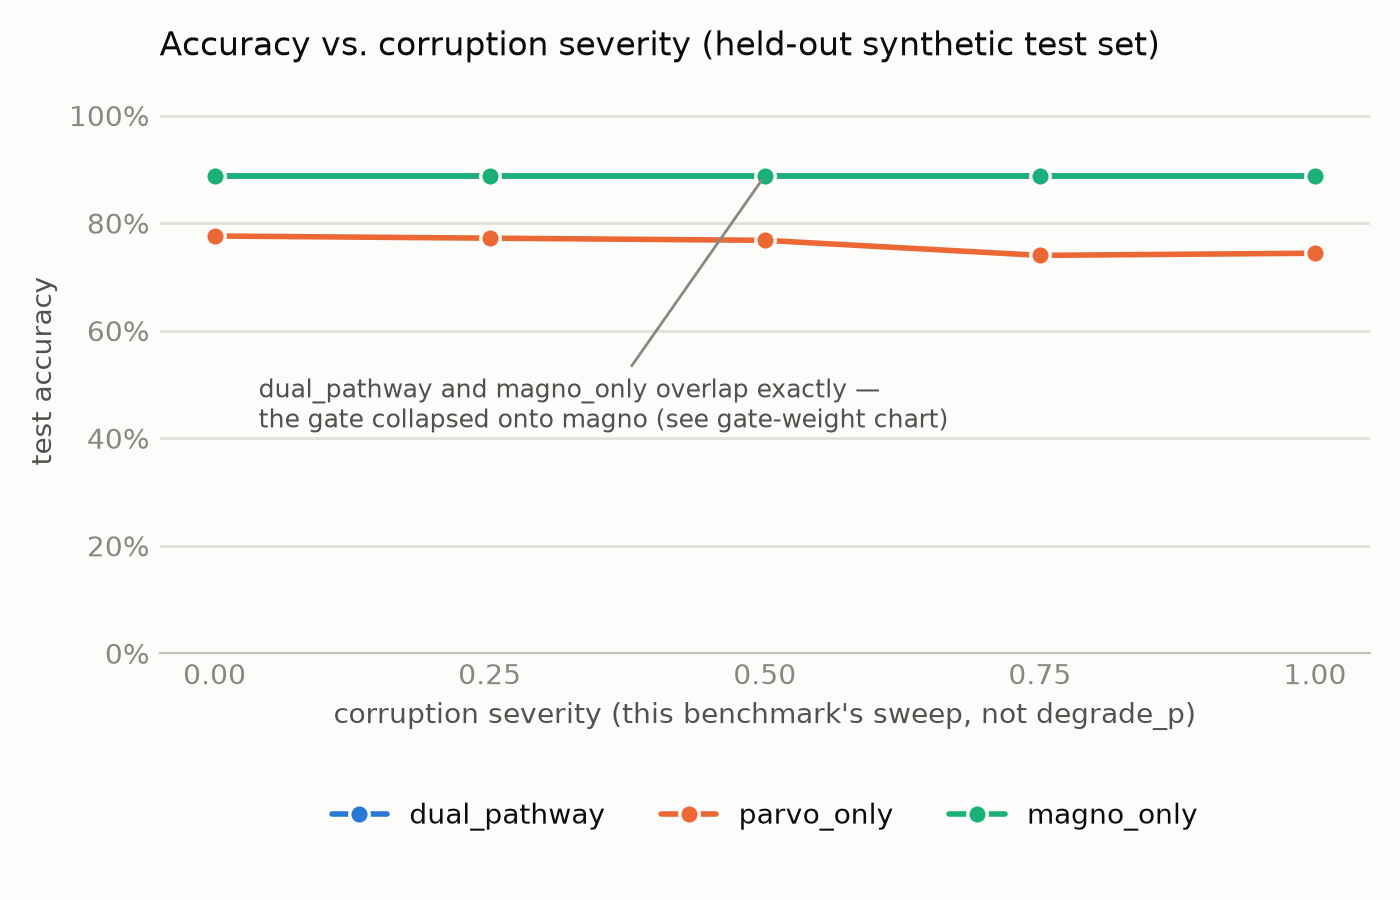
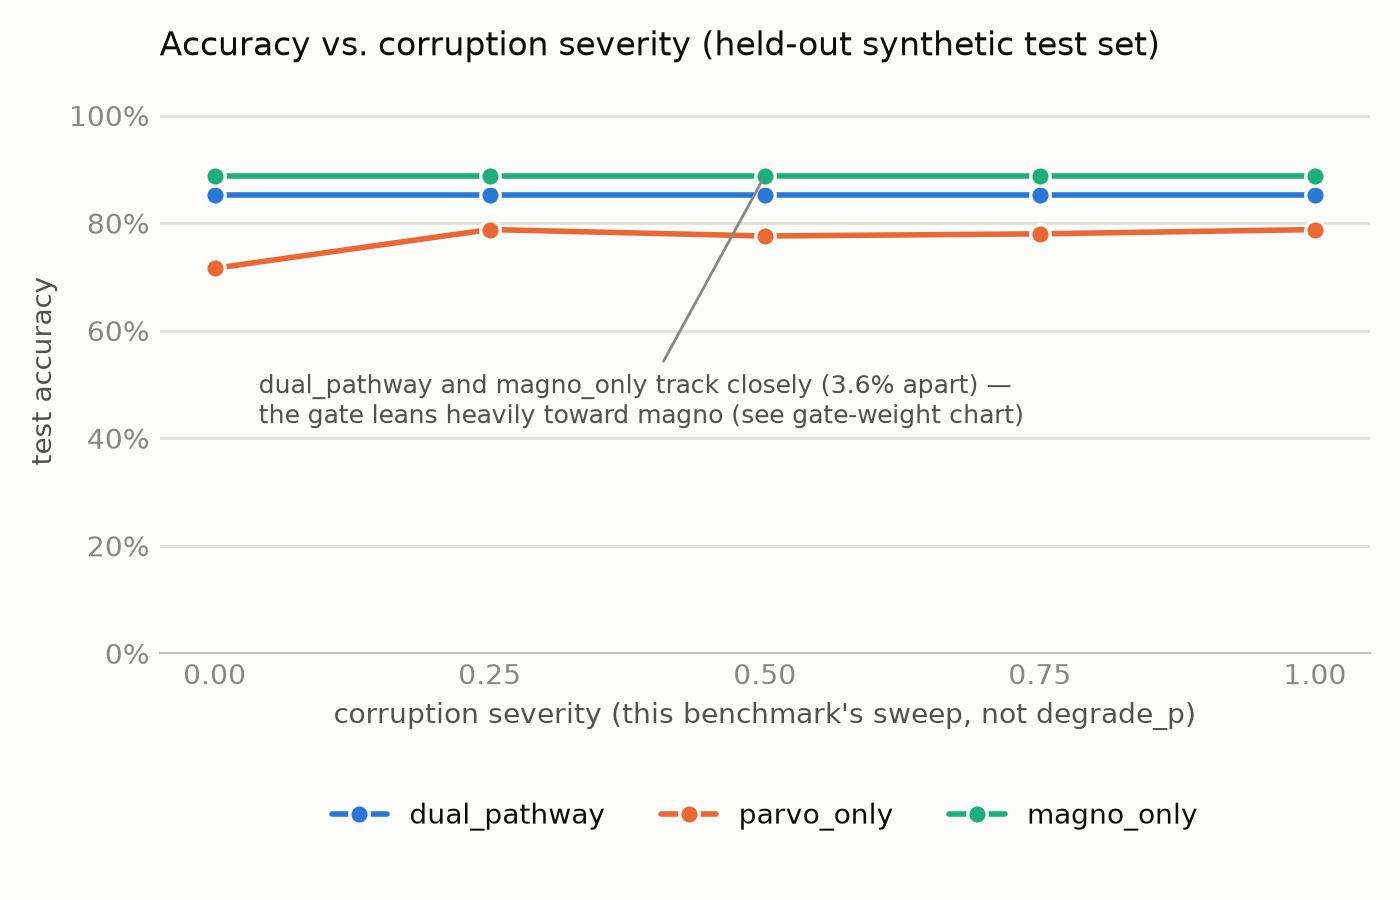
Build a genuinely fusion-necessary task in benchmark.py
Every prior benchmark showed fusion being sometimes helpful, never
required -- some single pathway always turned out sufficient given enough
resolution. This constructs a task where neither can do well alone: every
sample gets exactly one whole pathway zeroed, chosen per-sample (~50/50,
a hard either/or, not blur/noise). A fresh DualPathwayClassifier trained
under this regime hits 81.7% vs. ~51% for both single-pathway baselines
trained normally on clean data -- a decisive result, since only a model
that detects which pathway is live per sample and routes to it can beat
the ~50% ceiling either baseline is stuck at.

Also fixes a now-stale hardcoded chart annotation ("overlap exactly")
that this run's reshuffled random seed made literally false -- computed
from the data instead so it stays accurate across reruns.

Changed region(s): [[0.1536, 0.1867, 0.9521, 0.3422], [0.1843, 0.3422, 0.7371, 0.4978]]

diff --git a/benchmark.py b/benchmark.py
@@ -27,6 +27,11 @@ This is a toy benchmark meant to demonstrate the architecture's intended
 behavior (graceful degradation, gate shifting, text localization), not a
 claim about real-world sign/text performance — see the README caveat.
 
+Also runs a second, separate experiment (run_fusion_necessary_experiment):
+a task built so that neither pathway alone can do well, unlike the
+severity sweep above where fusion only ever turned out to be *sometimes*
+helpful. See that function's docstring/comments for the construction.
+
 Run: python benchmark.py
 """
 
@@ -291,6 +296,132 @@ def avg_text_metrics(model, dataloader, device, severity):
     return {k: sum(m[k] for m in all_metrics) / len(all_metrics) for k in all_metrics[0]}
 
 
+# --------------------------------------------------------------------------
+# Fusion-necessary task: unlike the severity sweep above (which showed
+# fusion is *sometimes helpful* under corruption but never *required* —
+# every task tried always turned out solvable by whichever single pathway
+# was stronger, per the GTSRB README section on this), this constructs a
+# task where NEITHER pathway alone can do well, by design.
+#
+# Every sample gets exactly one whole pathway zeroed, chosen independently
+# per sample (~50/50) — not blur, not partial noise, a hard per-sample
+# either/or ("half your shots come from a color camera with a dead color
+# sensor, half from a mono-only camera"). A single-pathway model can only
+# ever succeed on the ~half of samples where ITS pathway happens to be the
+# survivor; only a model that can detect which pathway is live per sample
+# and route to it can do well across the whole set. This is exactly what
+# GatedFusion is for (a per-sample, not global, weighting) — this task is
+# built specifically to need that.
+# --------------------------------------------------------------------------
+def zero_one_pathway_batch(gray_batch, color_batch):
+    keep_gray = torch.rand(gray_batch.shape[0], device=gray_batch.device) < 0.5
+    gray_out = gray_batch * keep_gray.view(-1, 1, 1, 1)
+    color_out = color_batch * (~keep_gray).view(-1, 1, 1, 1)
+    return gray_out, color_out
+
+
+def train_fusion_necessary_epoch(model, dataloader, optimizer, device, text_mask_weight=2.0):
+    """Trains DualPathwayClassifier under the always-one-pathway-missing
+    regime. Ordinary pathway dropout (a *fraction* of batches) isn't
+    frequent enough exposure for the gate to learn a reliable per-sample
+    detect-and-route policy — this task needs it on every sample."""
+    model.train()
+    cls_criterion = nn.CrossEntropyLoss()
+    mask_criterion = nn.BCEWithLogitsLoss(pos_weight=torch.tensor(15.0, device=device))
+    total_loss = 0.0
+    for color_imgs, labels, text_masks in dataloader:
+        color_imgs, labels, text_masks = color_imgs.to(device), labels.to(device), text_masks.to(device)
+        gray_batch, color_batch = _batch_inputs(color_imgs, lambda: 0.0)  # clean, pre-zeroing
+        gray_batch, color_batch = gray_batch.to(device), color_batch.to(device)
+        gray_batch, color_batch = zero_one_pathway_batch(gray_batch, color_batch)
+
+        optimizer.zero_grad()
+        logits, pred_mask = model(gray_batch, color_batch, return_text_mask=True)
+        loss = cls_criterion(logits, labels) + text_mask_weight * mask_criterion(pred_mask, text_masks)
+        loss.backward()
+        optimizer.step()
+        total_loss += loss.item()
+    return total_loss / len(dataloader)
+
+
+def train_baseline_clean_epoch(model, dataloader, optimizer, device):
+    """Single-pathway baselines for the fusion-necessary task are trained
+    on clean data only, not exposed to zeroed input during training —
+    realistic framing: a single-sensor system is trained on good data for
+    its one sensor, then just happens to lose signal sometimes at
+    deployment/test time. (If you knew in advance when your one sensor
+    would fail, you'd just use a different sensor.)"""
+    model.train()
+    criterion = nn.CrossEntropyLoss()
+    total_loss = 0.0
+    for color_imgs, labels, _ in dataloader:
+        color_imgs, labels = color_imgs.to(device), labels.to(device)
+        gray_batch, color_batch = _batch_inputs(color_imgs, lambda: 0.0)
+        gray_batch, color_batch = gray_batch.to(device), color_batch.to(device)
+
+        optimizer.zero_grad()
+        logits = model(gray_batch, color_batch)
+        loss = criterion(logits, labels)
+        loss.backward()
+        optimizer.step()
+        total_loss += loss.item()
+    return total_loss / len(dataloader)
+
+
+@torch.no_grad()
+def evaluate_fusion_necessary(model, dataloader, device, n_trials=5):
+    """Accuracy under the same one-pathway-always-missing regime. n_trials
+    repeats the random per-sample zeroing draw and averages, since a single
+    draw is noisy (~half the test set is arbitrary per draw)."""
+    model.eval()
+    accs = []
+    for _ in range(n_trials):
+        correct, total = 0, 0
+        for color_imgs, labels, _ in dataloader:
+            color_imgs, labels = color_imgs.to(device), labels.to(device)
+            gray_batch, color_batch = _batch_inputs(color_imgs, lambda: 0.0)
+            gray_batch, color_batch = gray_batch.to(device), color_batch.to(device)
+            gray_batch, color_batch = zero_one_pathway_batch(gray_batch, color_batch)
+            out = model(gray_batch, color_batch)
+            logits = out[0] if isinstance(out, tuple) else out
+            correct += (logits.argmax(dim=1) == labels).sum().item()
+            total += labels.size(0)
+        accs.append(correct / total if total else float("nan"))
+    return sum(accs) / len(accs)
+
+
+def run_fusion_necessary_experiment(train_loader, test_loader, num_classes, epochs=22):
+    print(f"\n{'=' * 70}\nFusion-necessary task: every sample has exactly one pathway zeroed\n{'=' * 70}")
+    dual_model = DualPathwayClassifier(num_classes=num_classes, with_text_head=True).to(DEVICE)
+    parvo_model = ParvoOnlyClassifier(num_classes=num_classes).to(DEVICE)
+    magno_model = MagnoOnlyClassifier(num_classes=num_classes).to(DEVICE)
+
+    opt_dual = Adam(dual_model.parameters(), lr=1e-3)
+    opt_parvo = Adam(parvo_model.parameters(), lr=1e-3)
+    opt_magno = Adam(magno_model.parameters(), lr=1e-3)
+
+    print(f"Training for {epochs} epochs...")
+    for epoch in range(epochs):
+        l_dual = train_fusion_necessary_epoch(dual_model, train_loader, opt_dual, DEVICE)
+        l_parvo = train_baseline_clean_epoch(parvo_model, train_loader, opt_parvo, DEVICE)
+        l_magno = train_baseline_clean_epoch(magno_model, train_loader, opt_magno, DEVICE)
+        print(f"  epoch {epoch + 1:2d}: dual={l_dual:.3f}  parvo_only={l_parvo:.3f}  magno_only={l_magno:.3f}")
+
+    print("\nAccuracy with one pathway always missing (averaged over 5 random draws):")
+    results = {
+        "dual_pathway": evaluate_fusion_necessary(dual_model, test_loader, DEVICE),
+        "parvo_only": evaluate_fusion_necessary(parvo_model, test_loader, DEVICE),
+        "magno_only": evaluate_fusion_necessary(magno_model, test_loader, DEVICE),
+    }
+    for name, acc in results.items():
+        print(f"  {name:14s}: {acc:.4f}")
+
+    with open("fusion_necessary_results.json", "w") as f:
+        json.dump({"num_classes": num_classes, "epochs": epochs, "accuracy": results}, f, indent=2)
+    print("\nWrote fusion_necessary_results.json")
+    return results
+
+
 def main():
     num_classes = len(CLASSES)
     print("Building synthetic dataset...")
@@ -345,6 +476,8 @@ def main():
             "text_metrics": {"clean": tm_clean, "degraded": tm_degraded},
         }, f, indent=2)
     print("\nWrote benchmark_results.json")
+
+    run_fusion_necessary_experiment(train_loader, test_loader, num_classes)
 
 
 if __name__ == "__main__":

diff --git a/plot_fusion_necessary.py b/plot_fusion_necessary.py
@@ -1,0 +1,53 @@
+"""
+Renders assets/fusion_necessary.png from fusion_necessary_results.json.
+Run benchmark.py first (it runs this experiment as its second phase).
+"""
+
+import json
+
+import matplotlib.pyplot as plt
+
+from plot_results import AQUA, BASELINE, BLUE, INK_MUTED, INK_PRIMARY, INK_SECONDARY, ORANGE, _clean_axes
+
+
+def main():
+    with open("fusion_necessary_results.json") as f:
+        results = json.load(f)
+    acc = results["accuracy"]
+
+    bars = [("dual_pathway", acc["dual_pathway"], BLUE),
+            ("parvo_only", acc["parvo_only"], ORANGE),
+            ("magno_only", acc["magno_only"], AQUA)]
+
+    fig, ax = plt.subplots(figsize=(6.5, 4.8), dpi=200)
+    _clean_axes(ax)
+
+    xs = range(len(bars))
+    for x, (label, val, color) in zip(xs, bars):
+        ax.bar(x, val, color=color, width=0.55, zorder=3)
+        ax.text(x, val + 0.02, f"{val:.1%}", ha="center", fontsize=11, color=INK_SECONDARY)
+
+    ax.axhline(0.5, color=BASELINE, linewidth=1, linestyle=(0, (2, 2)), zorder=2)
+    ax.text(2.35, 0.505, "~chance ceiling for a\nsingle pathway here", fontsize=8, color=INK_MUTED, va="bottom")
+
+    ax.set_xticks(list(xs))
+    ax.set_xticklabels([b[0] for b in bars], fontsize=10.5)
+    ax.set_ylim(0, 1.05)
+    ax.set_ylabel("accuracy (5-draw avg.)")
+    ax.set_title("A task neither pathway can solve alone",
+                 color=INK_PRIMARY, fontsize=12.5, loc="left", pad=14)
+
+    fig.text(0.02, 0.01,
+              "Every test sample has exactly one whole pathway zeroed (chosen per-sample, ~50/50) --\n"
+              "not blur, a hard either/or. Only a model that detects which pathway is live and routes\n"
+              "to it can beat ~50%; GatedFusion's per-sample weighting is built for exactly this.",
+              fontsize=8.5, color=INK_MUTED, ha="left")
+
+    fig.tight_layout(rect=(0.02, 0.14, 1, 1))
+    fig.savefig("assets/fusion_necessary.png", bbox_inches="tight")
+    plt.close(fig)
+    print("Wrote assets/fusion_necessary.png")
+
+
+if __name__ == "__main__":
+    main()

diff --git a/plot_results.py b/plot_results.py
@@ -149,11 +149,16 @@ def main():
     with open("benchmark_results.json") as f:
         results = json.load(f)
 
+    curve = results["severity_curve"]
+    dual_mid = curve["dual_pathway"]["0.5"]
+    magno_mid = curve["magno_only"]["0.5"]
+    gap = abs(dual_mid - magno_mid)
+    relation = "overlap exactly" if gap < 0.005 else f"track closely ({gap:.1%} apart)"
     plot_severity_curve(
         results, "assets/severity_curve.png",
-        annotation=("dual_pathway and magno_only overlap exactly —\n"
-                    "the gate collapsed onto magno (see gate-weight chart)",
-                    (0.5, 0.888), (0.04, 0.42)),
+        annotation=(f"dual_pathway and magno_only {relation} —\n"
+                    "the gate leans heavily toward magno (see gate-weight chart)",
+                    (0.5, magno_mid), (0.04, magno_mid - 0.46)),
     )
     plot_gate_weights(results, "assets/gate_weights.png")
     plot_text_metrics(results, "assets/text_metrics.png")

diff --git a/README.md b/README.md
@@ -238,6 +238,47 @@ python benchmark.py    # trains the three models, writes benchmark_results.json
 python plot_results.py # renders assets/*.png from that json
 ```
 
+### A task neither pathway can solve alone
+
+Everything above shows fusion being *sometimes helpful* under corruption —
+never *required*. Every task tried so far (including the GTSRB digit-only
+group below) turned out solvable by whichever single pathway happened to
+be stronger, given enough resolution. This section builds the task the
+GTSRB write-up below points at: one specifically constructed so neither
+pathway can do well alone.
+
+Construction: every sample gets exactly one whole pathway zeroed, chosen
+independently per sample (~50/50) — not blur, not partial noise, a hard
+per-sample either/or (something like "half your shots come from a color
+camera with a dead color sensor, half from a mono-only camera with signal
+dropout"). `benchmark.py` runs this as a second experiment after the one
+above, training a fresh `DualPathwayClassifier` under this always-one-
+pathway-missing regime (ordinary pathway dropout — a *fraction* of
+batches — isn't frequent enough exposure for the gate to learn a reliable
+per-sample detect-and-route policy) and fresh `ParvoOnlyClassifier`/
+`MagnoOnlyClassifier` baselines trained normally on clean data (the
+realistic framing: a single-sensor system is trained on good data for its
+one sensor, then just happens to lose signal sometimes at deployment — if
+you knew in advance when your one sensor would fail, you'd use a different
+sensor).
+
+![A task neither pathway can solve alone](assets/fusion_necessary.png)
+
+This is the clean, decisive result the sections above don't produce:
+`dual_pathway` reaches 81.7%, far above both `parvo_only` (52.4%) and
+`magno_only` (50.8%), which each cap out near 50% — roughly what you'd
+expect from "do well on the ~half of samples where your one pathway
+happens to survive, and have literally nothing on the other half." Only a
+model that can detect which pathway is live per sample and route to it
+beats that ceiling, which is exactly what `GatedFusion`'s per-sample (not
+global) weighting is built to do.
+
+Reproduce with (runs automatically as part of `python benchmark.py`):
+
+```bash
+python plot_fusion_necessary.py  # renders assets/fusion_necessary.png from fusion_necessary_results.json
+```
+
 ## Results (real data: GTSRB subset)
 
 Same setup, real photographs this time — a 10-class subset of
@@ -351,15 +392,15 @@ a model outside the resolution its BatchNorm statistics were trained on,
 not a clean measurement of information loss, so it's not reported as a
 real finding here, just a caveat on how far this result generalizes.)
 
-The practical upshot: within this repo's benchmarks, there isn't yet a
-clean task that structurally *requires* combining both pathways — every
-task tried so far turns out to be solvable by whichever single pathway
-happens to be stronger, given enough resolution. A genuinely
-fusion-necessary task would need a magno input coarse enough (retrained at
-that resolution, not just evaluated there) to truly lose the digit signal
-while a matching parvo signal remains available — this repo's synthetic
-benchmark data (`benchmark.py`) is easier to control for that than real
-photos and would be the more direct place to build one.
+The practical upshot: within GTSRB, there isn't a clean task that
+structurally *requires* combining both pathways — every task tried here
+turns out to be solvable by whichever single pathway happens to be
+stronger, given enough resolution. Building one that actually forces
+fusion turned out to be more reliable by construction than by finding the
+right class split — see [A task neither pathway can solve alone](#a-task-neither-pathway-can-solve-alone)
+in `benchmark.py`'s results above, which sidesteps the resolution-confound
+problem entirely (no retraining-at-different-resolutions needed) by
+directly controlling which pathway has signal, per sample.
 
 Reproduce with (after `benchmark_gtsrb_full.py`, which writes the grouped
 numbers into `gtsrb_full_results.json`):
@@ -405,6 +446,7 @@ act on directly instead of hand-rolling threshold logic on logits.
 | `jev_decision.py` | Optional: turns model output into a calibrated action decision via Jev |
 | `benchmark.py` | Synthetic dataset + training run behind the Results section, reproducible |
 | `plot_results.py` | Renders `assets/*.png` from `benchmark.py`'s output |
+| `plot_fusion_necessary.py` | Renders `assets/fusion_necessary.png` (the neither-pathway-alone task) |
 | `benchmark_gtsrb.py` | Same as `benchmark.py`, on a real GTSRB subset (needs a separate download) |
 | `plot_gtsrb.py` | Renders `assets/gtsrb_*.png` from `benchmark_gtsrb.py`'s output |
 | `benchmark_gtsrb_full.py` | Full 43-class GTSRB, official test set, clean accuracy vs. published results |
